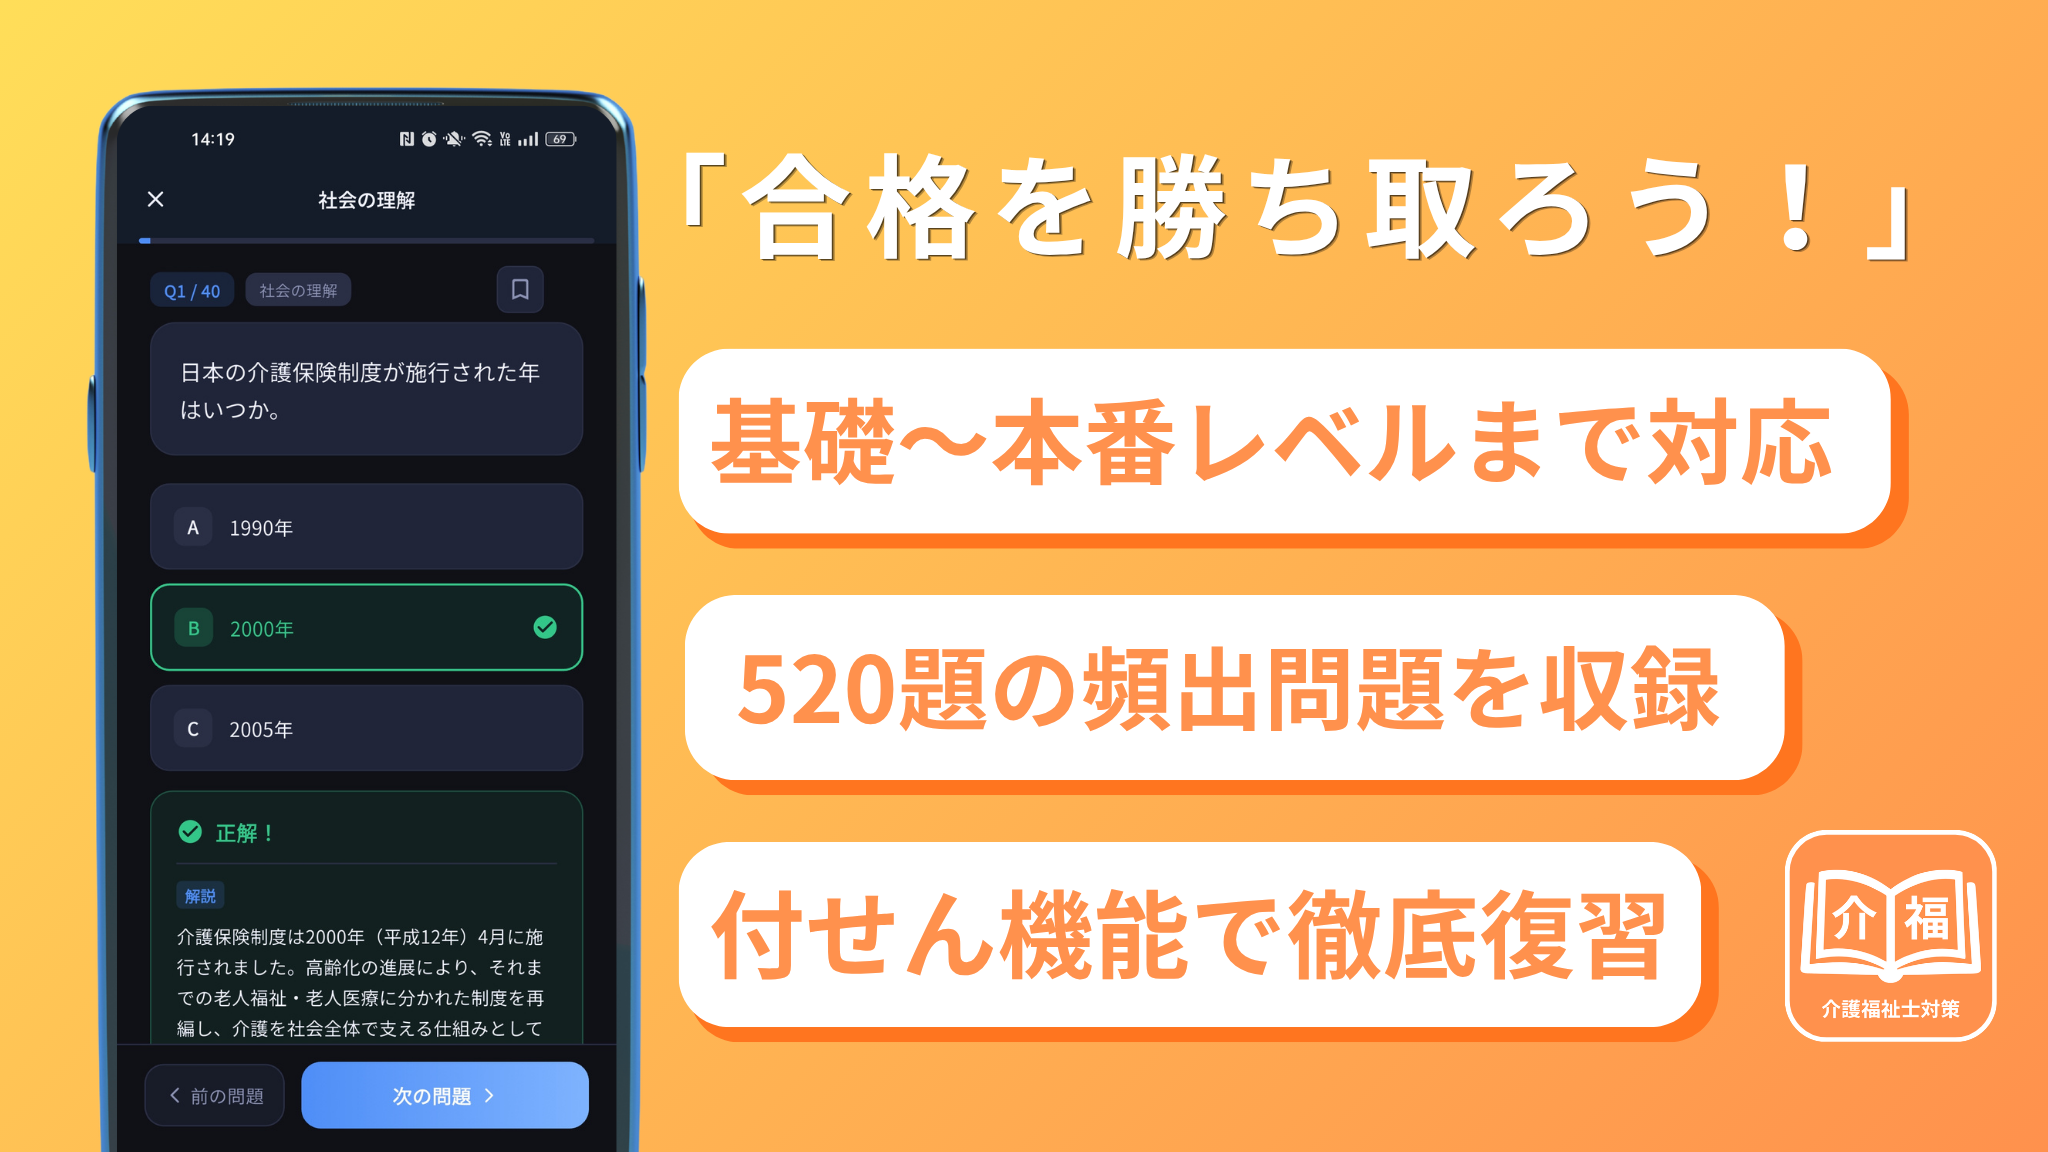
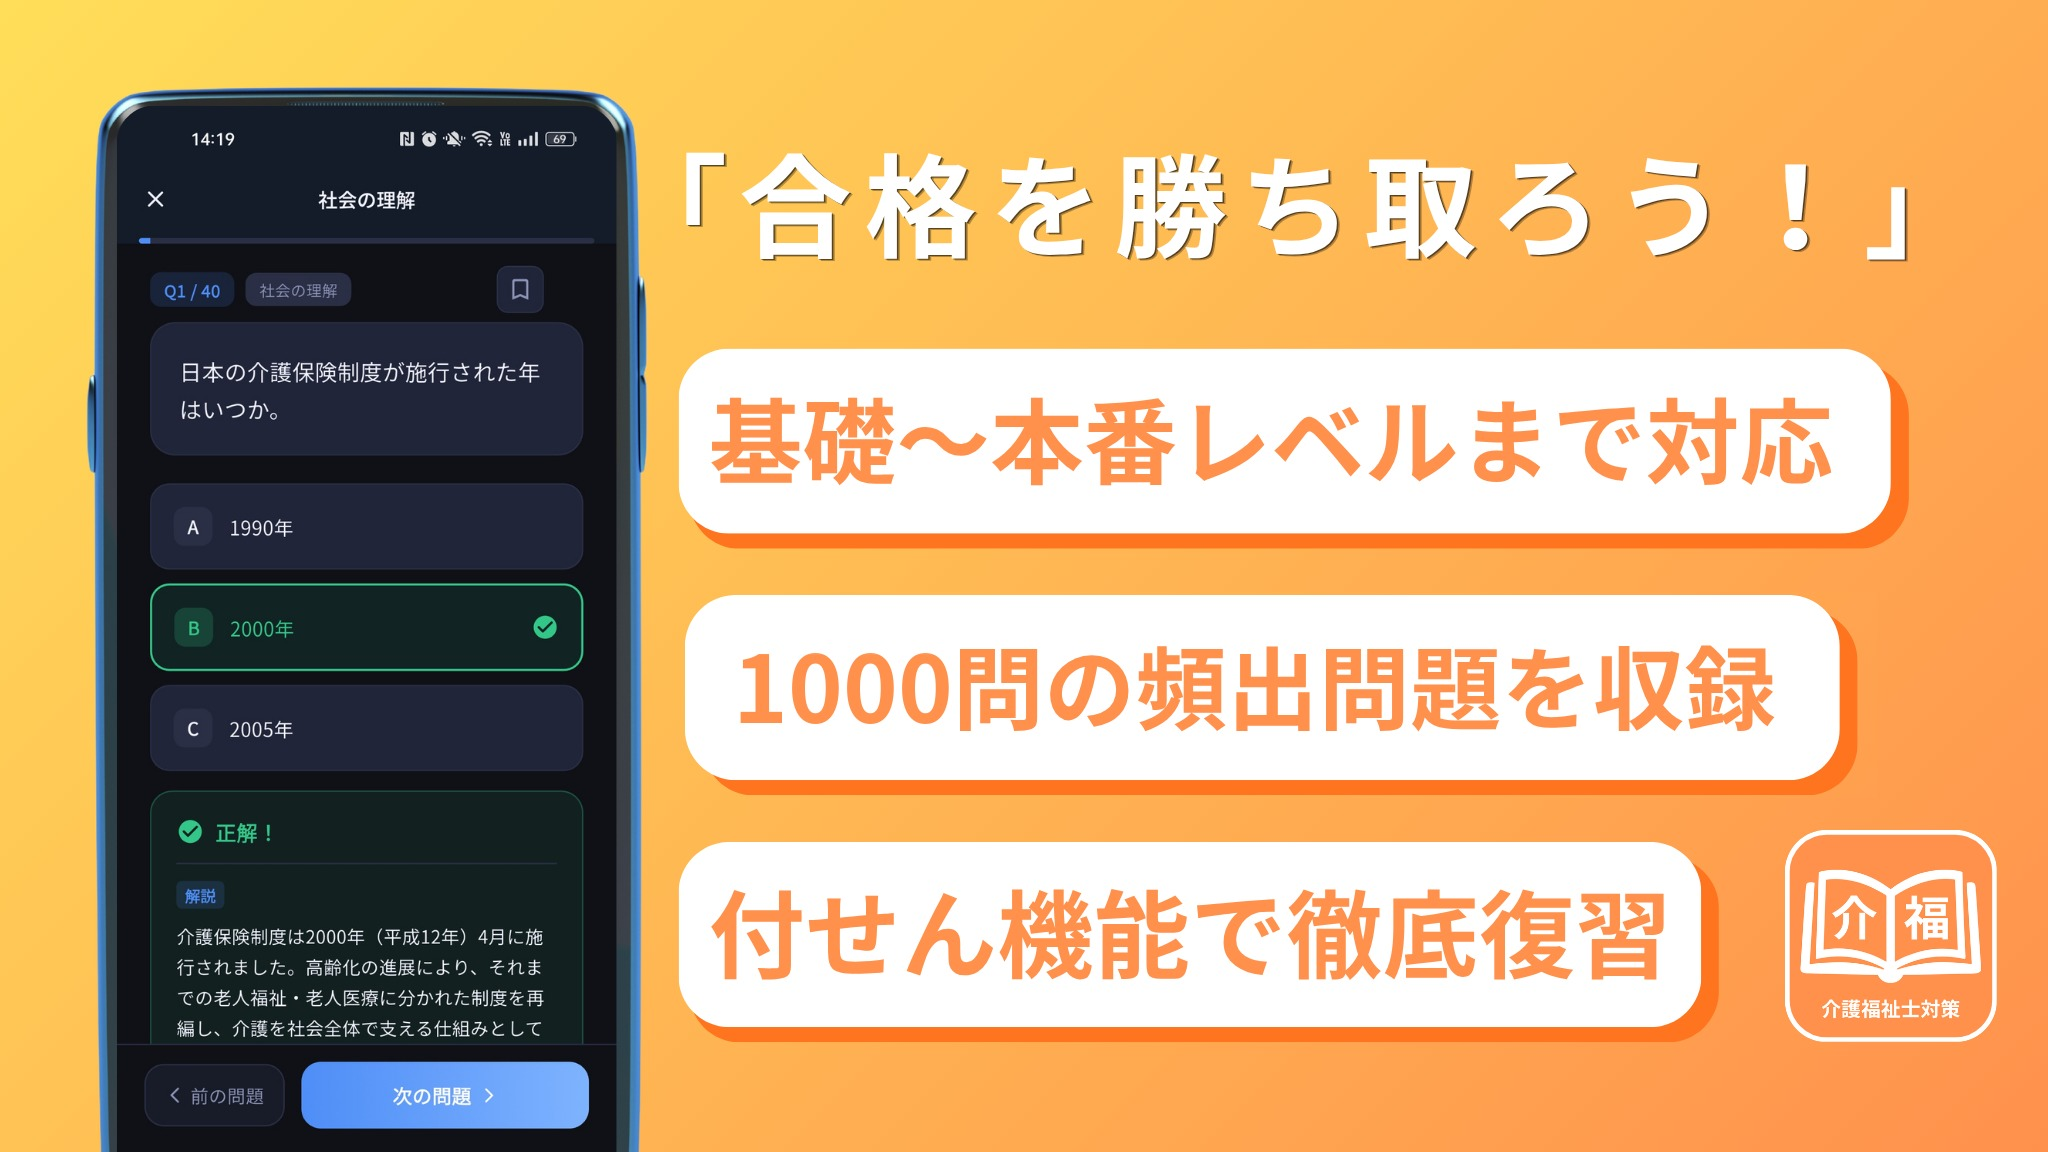
Add files via upload

diff --git a/index.html b/index.html
@@ -63,7 +63,7 @@
           <div class="app-text">
             <h4>社会福祉士への道</h4>
             <p>社会福祉士の国家試験に向けて、基礎から本番レベルまで解き進められる対策アプリです。</p>
-            <ul class="feats"><li>頻出問題 925問</li><li>付せんで、苦手な問題をくり返し復習</li><li>基礎から本番レベルまで</li></ul>
+            <ul class="feats"><li>重要問題 1017問</li><li>付せんで、苦手な問題をくり返し復習</li><li>基礎から本番レベルまで</li></ul>
             <div class="app-actions">
               <a class="btn-play" href="https://play.google.com/store/apps/details?id=com.kumonest.shafuku" target="_blank" rel="noopener"><svg viewBox="0 0 24 24" aria-hidden="true"><path d="M3.18 23.76a2 2 0 0 1-.93-.23 2.05 2.05 0 0 1-1.06-1.83V2.3A2.05 2.05 0 0 1 2.25.47a2 2 0 0 1 2.05.1l17.1 9.7a2.06 2.06 0 0 1 0 3.56l-17.1 9.7a2 2 0 0 1-1.12.23z"/></svg>Google Play で見る</a>
               <a class="app-policy" href="privacy.html">ポリシー</a>
@@ -77,7 +77,7 @@
           <div class="app-text">
             <h4>介護福祉士対策</h4>
             <p>介護福祉士の国家試験に向けた対策アプリ。基礎から本番レベルまで、順を追って力をつけられます。</p>
-            <ul class="feats"><li>頻出問題 520問</li><li>付せんで、苦手な問題をくり返し復習</li><li>基礎から本番レベルまで</li></ul>
+            <ul class="feats"><li>頻出問題 1000問</li><li>付せんで、苦手な問題をくり返し復習</li><li>基礎から本番レベルまで</li></ul>
             <div class="app-actions">
               <a class="btn-play" href="https://play.google.com/store/apps/details?id=com.kumonest.kaigo" target="_blank" rel="noopener"><svg viewBox="0 0 24 24" aria-hidden="true"><path d="M3.18 23.76a2 2 0 0 1-.93-.23 2.05 2.05 0 0 1-1.06-1.83V2.3A2.05 2.05 0 0 1 2.25.47a2 2 0 0 1 2.05.1l17.1 9.7a2.06 2.06 0 0 1 0 3.56l-17.1 9.7a2 2 0 0 1-1.12.23z"/></svg>Google Play で見る</a>
               <a class="app-policy" href="privacy.html">ポリシー</a>
@@ -105,7 +105,7 @@
           <div class="app-text">
             <h4>日本史～大学受験対策～</h4>
             <p>大学受験の日本史を、重要な問題にしぼって一問一答で身につけるアプリです。</p>
-            <ul class="feats"><li>重要問題 550問</li><li>覚えやすい一問一答</li><li>付せんで、苦手な問題をくり返し復習</li></ul>
+            <ul class="feats"><li>頻出問題 1000問</li><li>覚えやすい一問一答</li><li>付せんで、苦手な問題をくり返し復習</li></ul>
             <div class="app-actions">
               <a class="btn-play" href="https://play.google.com/store/apps/details?id=com.kumonest.nihonshi" target="_blank" rel="noopener"><svg viewBox="0 0 24 24" aria-hidden="true"><path d="M3.18 23.76a2 2 0 0 1-.93-.23 2.05 2.05 0 0 1-1.06-1.83V2.3A2.05 2.05 0 0 1 2.25.47a2 2 0 0 1 2.05.1l17.1 9.7a2.06 2.06 0 0 1 0 3.56l-17.1 9.7a2 2 0 0 1-1.12.23z"/></svg>Google Play で見る</a>
               <a class="app-policy" href="privacy.html">ポリシー</a>
